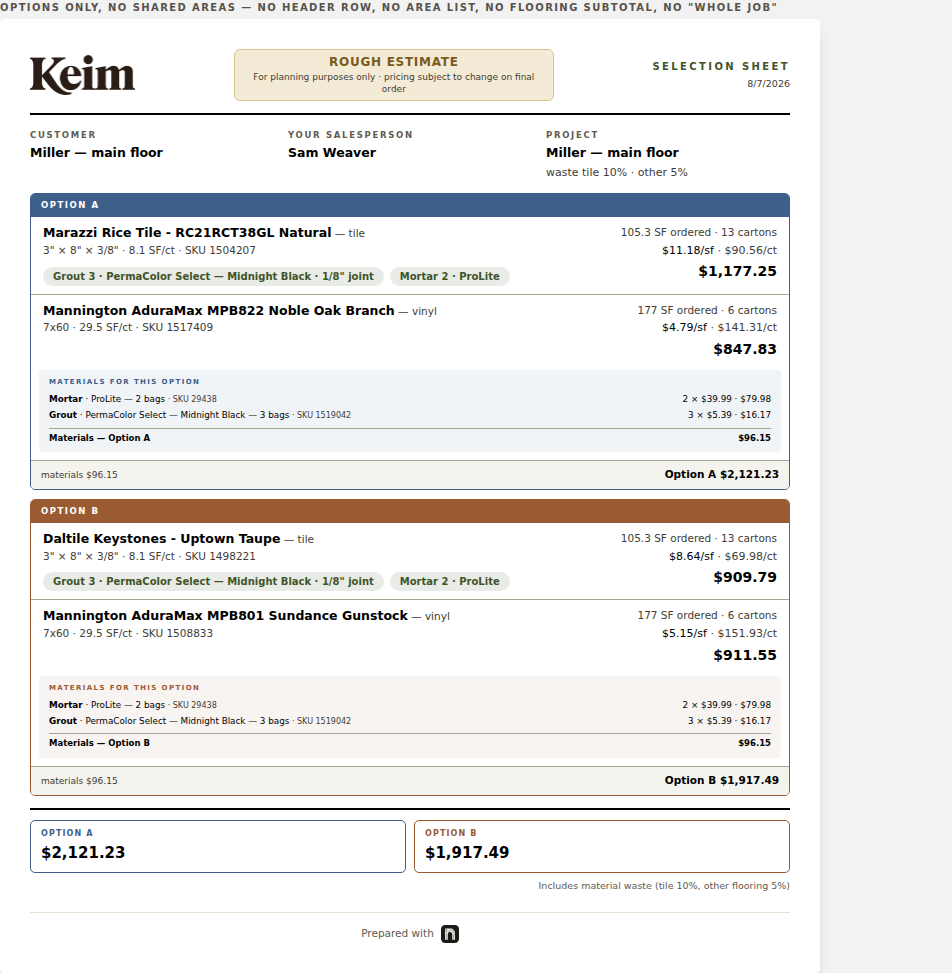
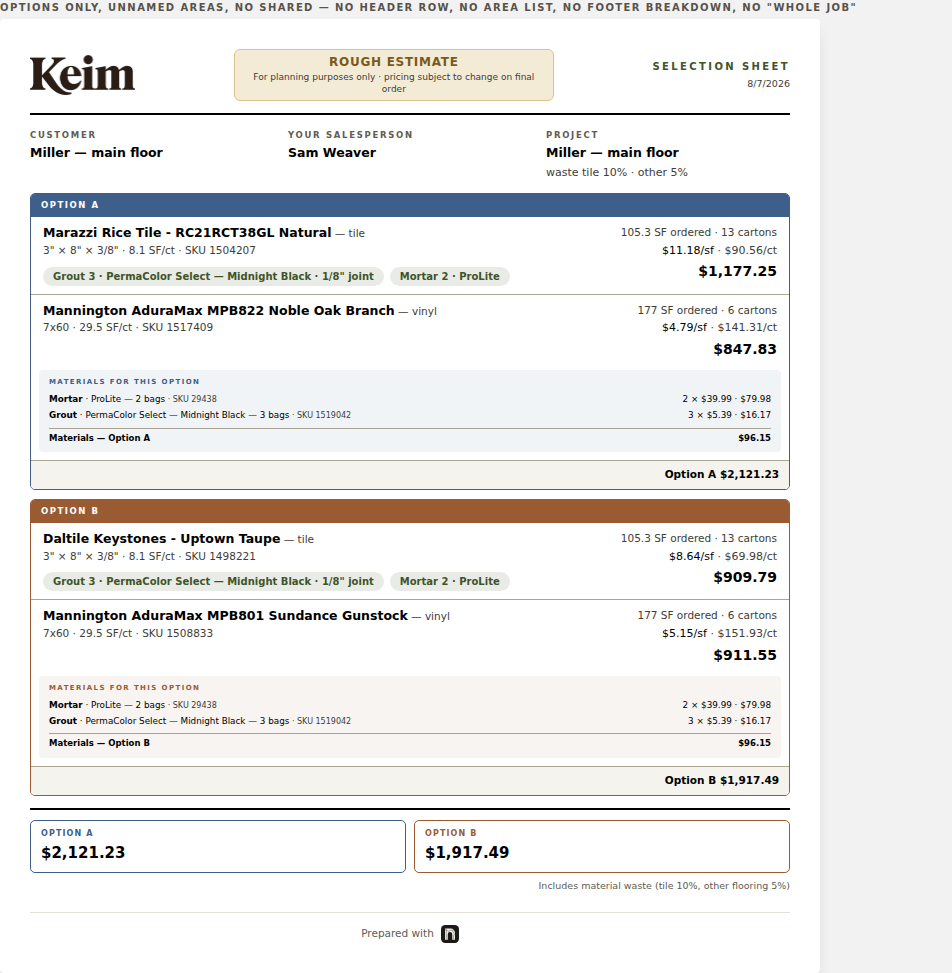
Option band footer: total only; area names only when named
Owner follow-up on the print declutter: the band footer's left
'materials $X' note goes entirely — the row is just the option total —
and the header's area list returns, but only for areas someone actually
named ('Kitchen · Mudroom'); placeholder Area-NN labels stay off.

Claude-Session: https://claude.ai/code/session_01EwBiYXtCVUtoj4A3C9oSzE

Changed region(s): [[0.1218, 0.0, 0.8834, 0.0308], [0.0609, 0.4625, 0.1218, 0.4933]]

diff --git a/src/EstimatePrint.jsx b/src/EstimatePrint.jsx
@@ -331,6 +331,9 @@ export function EstimatePaper({ sel, people, profile, tv, jobWaste, pMats, tSet,
               <div key={S.slot} className="break-inside-avoid" style={{ border: `1.3px solid ${S.color.main}`, borderRadius: 5, marginBottom: 9, overflow: "hidden" }}>
                 <div className="flex items-center uppercase" style={{ gap: 8, background: S.color.main, color: "#fff", padding: "5px 10px", fontSize: 8.5, fontWeight: 800, letterSpacing: ".18em" }}>
                   Option {S.slot}{S.title !== `Option ${S.slot}` ? ` · ${S.title}` : ""}
+                  {/* Only areas someone actually named earn the header — a list of
+                      "Area 01 · Area 02" placeholders says nothing. */}
+                  {S.cats.some((a) => (a.name || "").trim()) && <span style={{ marginLeft: "auto", textTransform: "none", letterSpacing: 0, fontSize: 9, fontWeight: 700 }}>{S.cats.filter((a) => (a.name || "").trim()).map((a) => a.name.trim()).join(" · ")}</span>}
                 </div>
                 {S.cats.flatMap((a) => a.products.filter((p) => !rowBlank(p))).map((p, pi) => renderProduct(p, pi))}
                 {showTotals && S.t.matLines.length > 0 && (
@@ -346,8 +349,7 @@ export function EstimatePaper({ sel, people, profile, tv, jobWaste, pMats, tSet,
                   </div>
                 )}
                 {showTotals && (
-                  <div className="flex justify-between items-baseline" style={{ padding: "6px 10px", borderTop: "1px solid var(--ft-paper-rule)", fontSize: 9, background: "color-mix(in srgb, var(--ft-paper-band) 55%, #fff)" }}>
-                    <span style={{ color: "var(--ft-paper-muted)" }}>{S.t.matLines.length ? `materials ${money(S.t.materialsCost + S.t.freightCost)}` : "no setting materials"}</span>
+                  <div className="flex justify-end items-baseline" style={{ padding: "6px 10px", borderTop: "1px solid var(--ft-paper-rule)", fontSize: 9, background: "color-mix(in srgb, var(--ft-paper-band) 55%, #fff)" }}>
                     <span style={{ fontWeight: 800, fontSize: 10.5 }}>Option {S.slot} {money(S.t.grandTotal)}{hasShared && <> &nbsp;·&nbsp; <span style={{ color: "var(--ft-brand-deep)" }}>whole job {money(S.whole)}</span></>}</span>
                   </div>
                 )}

diff --git a/.scratch/082_print-options-declutter/preview.jsx b/.scratch/082_print-options-declutter/preview.jsx
@@ -28,15 +28,17 @@ const vinyl = (over) => ({
 
 const area = (name, option, products) => ({ ...newArea(), name, option, products });
 
+// Case 1: unnamed option areas, no shared bucket. Case 2: named areas
+// ("Kitchen"/"Mudroom") plus a shared Hallway.
 const makeJob = (withShared) => ({
   ...newProject(null, "Miller — main floor"), _full: true,
   waste: { tile: 10, floor: 5, tileOn: true, floorOn: true },
   categories: [
     ...(withShared ? [area("Hallway", "", [vinyl({ qty: "240" })])] : []),
-    area("Area 01", "A", [tile()]),
-    area("Area 02", "A", [vinyl()]),
-    area("Area 01", "B", [tile({ brandColor: "Daltile Keystones - Uptown Taupe", sku: "1498221", priceSqft: "8.64" })]),
-    area("Area 02", "B", [vinyl({ brandColor: "Mannington AduraMax MPB801 Sundance Gunstock", sku: "1508833", priceSqft: "5.15" })]),
+    area(withShared ? "Kitchen" : "", "A", [tile()]),
+    area(withShared ? "Mudroom" : "", "A", [vinyl()]),
+    area(withShared ? "Kitchen" : "", "B", [tile({ brandColor: "Daltile Keystones - Uptown Taupe", sku: "1498221", priceSqft: "8.64" })]),
+    area(withShared ? "Mudroom" : "", "B", [vinyl({ brandColor: "Mannington AduraMax MPB801 Sundance Gunstock", sku: "1508833", priceSqft: "5.15" })]),
   ],
 });
 
@@ -68,11 +70,11 @@ function Paper({ withShared }) {
 createRoot(document.getElementById("preview")).render(
   <div className="min-h-screen bg-slate-100" style={{ padding: 24, display: "flex", flexDirection: "column", gap: 24 }}>
     <div data-shot="no-shared">
-      <p className="ft-eyebrow text-[10px] mb-1">options only, NO shared areas — no header row, no area list, no flooring subtotal, no "whole job"</p>
+      <p className="ft-eyebrow text-[10px] mb-1">options only, unnamed areas, NO shared — no header row, no area list, no footer breakdown, no "whole job"</p>
       <Paper withShared={false} />
     </div>
     <div data-shot="with-shared">
-      <p className="ft-eyebrow text-[10px] mb-1">options + a shared area — "whole job" and "incl. shared areas" return</p>
+      <p className="ft-eyebrow text-[10px] mb-1">named areas + a shared area — the names print in the band header; "whole job" and "incl. shared areas" return</p>
       <Paper withShared={true} />
     </div>
   </div>

diff --git a/.scratch/082_print-options-declutter/ticket.md b/.scratch/082_print-options-declutter/ticket.md
@@ -4,9 +4,12 @@ Declutter the option-print sheet (owner's annotated screenshot, 2026-08-07):
 
 - Dropped the "The options / choose one option below" header row above the
   option bands — the colored bands introduce themselves.
-- Dropped the area-name list from each option band's header bar.
-- Dropped the flooring subtotal from the band footer's left note; it now reads
-  just `materials $X` (the "no setting materials" fallback stays).
+- The band header's area list now prints only areas someone actually NAMED
+  (owner follow-up 2026-08-07): "Kitchen · Mudroom" earns the header,
+  placeholder "Area 01 · Area 02" labels say nothing and stay off.
+- Dropped the band footer's left breakdown entirely (first pass kept a
+  `materials $X` note; the owner's follow-up removed that too) — the footer
+  is just the option total now.
 - `whole job $X` beside an option total — and the closing grid's
   `incl. shared areas $X` caption — now print only when the shared bucket
   actually carries cost (`optionPrint.sharedT.grandTotal > 0`). With no shared
@@ -17,8 +20,9 @@ Preview proof — `preview.html`/`preview.jsx` render the REAL `EstimatePaper`
 (`jobTotals`/`bucketCats`), mirroring App.jsx's `optionPrint`/`paperProps`
 construction; `shot.mjs` shoots it off `npx vite --port 5199`. No Supabase.
 
-- `print-1-options-no-shared.png` — options only, no shared areas: no header
-  row, no area list, `materials $96.15` only on the left, no "whole job", and
-  the closing cards drop the `incl. shared areas` caption.
-- `print-2-options-with-shared.png` — same job plus a shared Hallway area:
-  `whole job` and `incl. shared areas` return.
+- `print-1-options-no-shared.png` — options only, unnamed areas, no shared
+  areas: no header row, no area list, no footer breakdown, no "whole job",
+  and the closing cards drop the `incl. shared areas` caption.
+- `print-2-options-with-shared.png` — named areas plus a shared Hallway area:
+  "Kitchen · Mudroom" prints in each band header; `whole job` and
+  `incl. shared areas` return.
